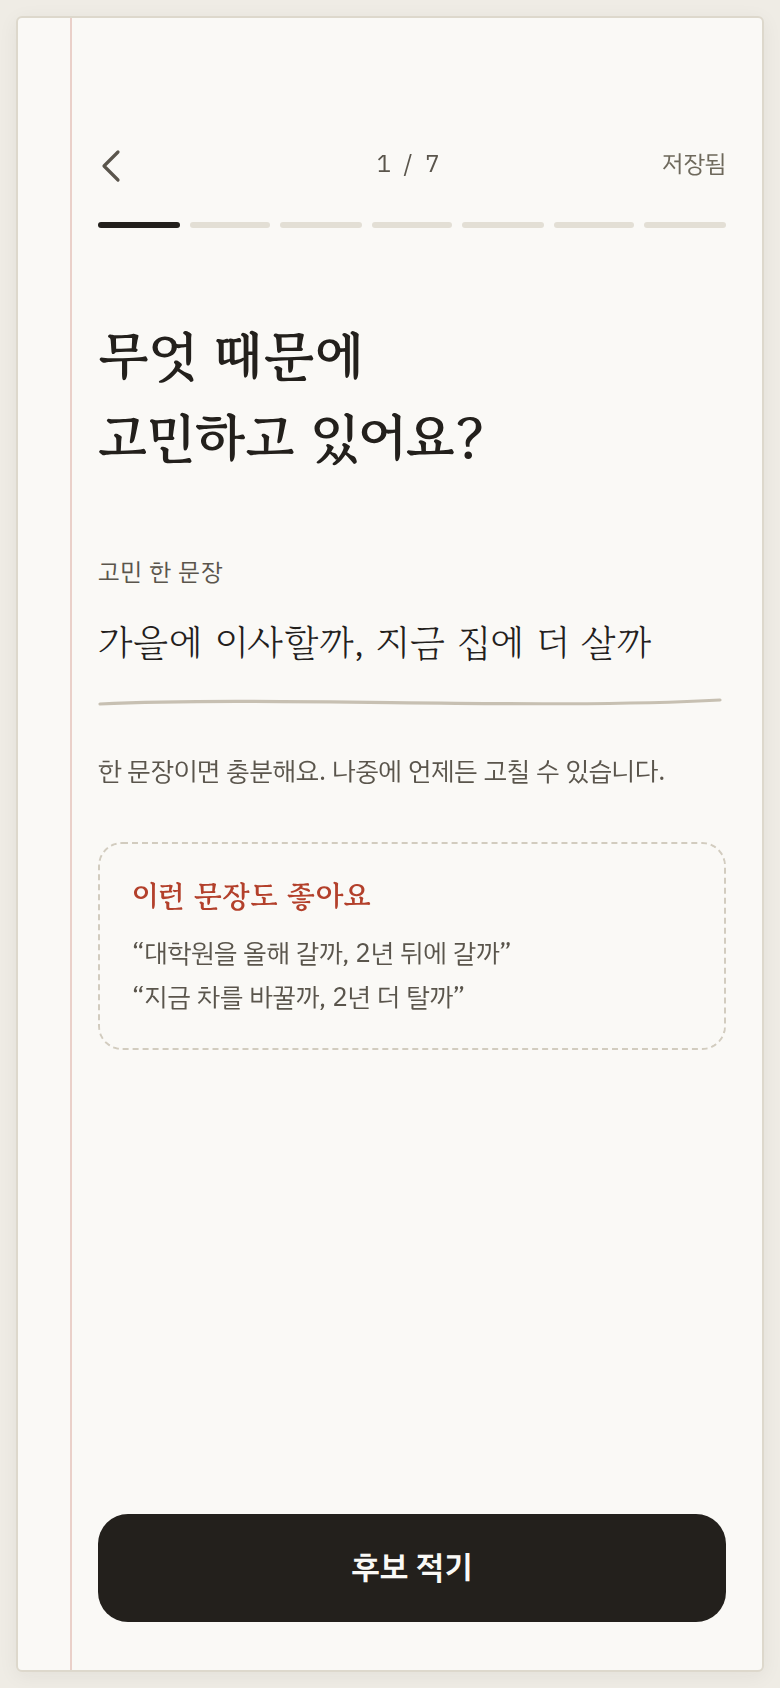
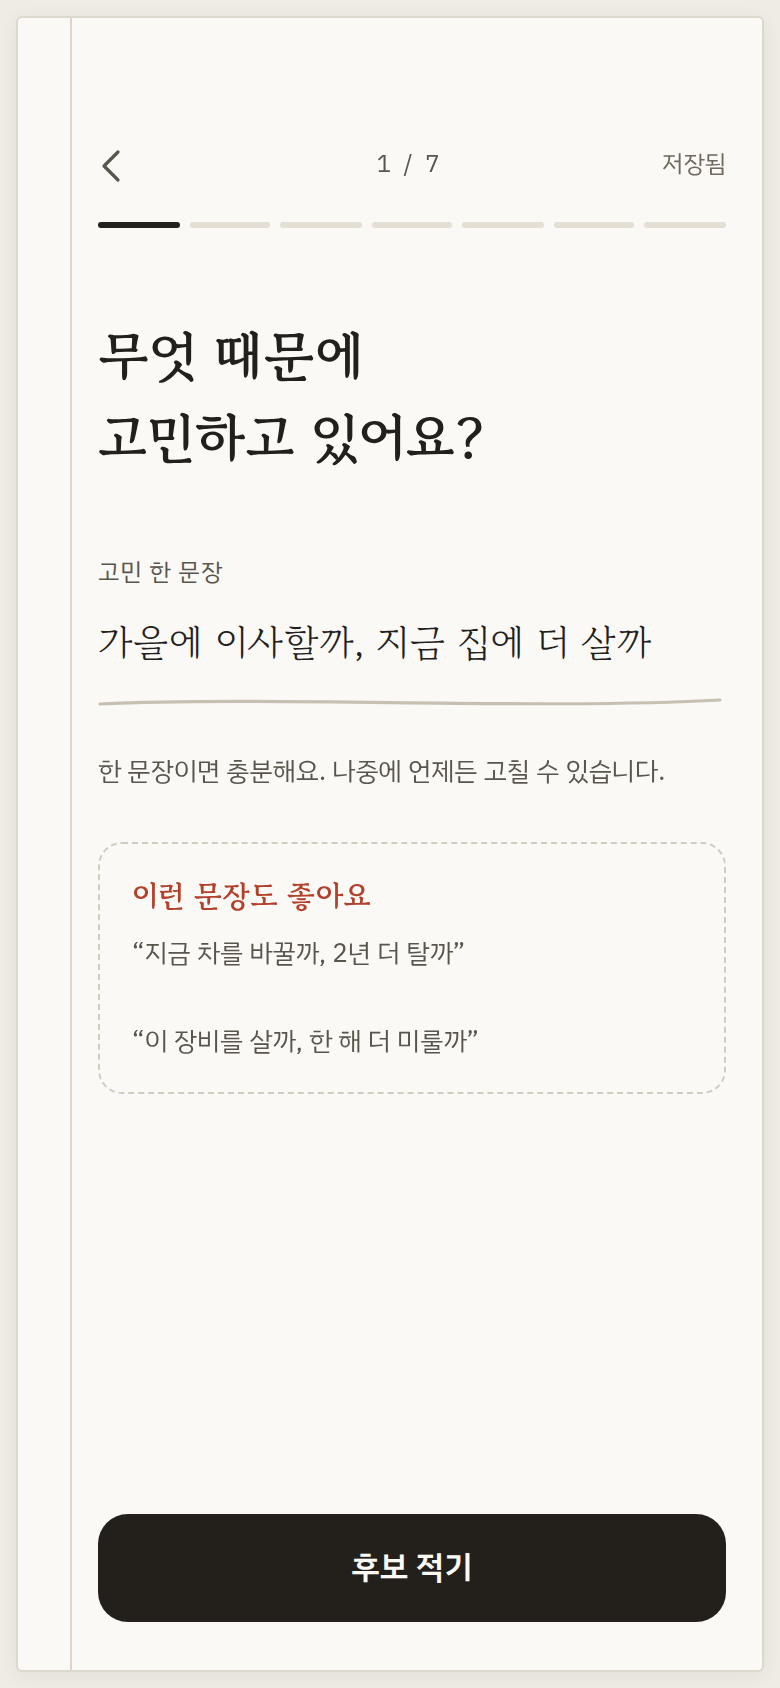
fix: 커서 두 개 · 시안 예시 고정 제거
커서 두 개 (피드백 5)
입력칸이 비어 있고 포커스가 있으면 브라우저의 진짜 커서가 왼쪽에서,
장식용 펜 커서가 오른쪽 끝에서 함께 깜빡였다. 펜 커서는 "여기에 쓰세요"를
알리는 표시이므로 비어 있고 **포커스가 없을 때만** 보이게 했다.
같은 구조가 두 화면에 있어 WriteField 컴포넌트로 합쳤다.

시안 예시 고정 (피드백 3)
'이사' 예시가 모든 입력칸에 박혀 있어서, 다른 고민을 적으면 화면이 남의 옷을
입은 것처럼 읽혔다.

- 고민 한 문장: 문장의 꼴을 보여주려면 예시가 필요하므로 남기되, 주거·진로·
  구매·관계·건강·일의 여섯 묶음에서 결정마다 다른 것을 뽑는다. 같은 결정에서는
  id로 고정해 화면을 오갈 때 바뀌지 않는다
- 후보·기준·필수조건·이유: 내용이 전적으로 그 사람의 고민에 달렸다. 예시를 주면
  그 방향으로 끌려가므로 자리 표시만 남겼다
- 기준 화면의 '+ 소음' '+ 계약 안정성' 칩 제거. 주거 고민에만 맞았고,
  앱이 기준 후보를 늘어놓는 것 자체가 기획안 8.3에 어긋난다

Claude-Session: https://claude.ai/code/session_01DfCYJNm8fnv5qvTtHT6e4k

Changed region(s): [[0.1846, 0.5545, 0.6462, 0.6469]]

diff --git a/src/copy/examples.ts b/src/copy/examples.ts
@@ -1,0 +1,48 @@
+/**
+ * 입력칸의 예시 문구.
+ *
+ * 시안에서는 '이사' 예시가 모든 화면에 고정돼 있었는데, 실제로 다른 고민을 적으면
+ * 화면이 남의 옷을 입은 것처럼 읽혔다. 그래서 이렇게 나눈다.
+ *
+ *   · 고민 한 문장  — 문장의 *꼴*을 보여줘야 해서 예시가 필요하다. 대신 도메인을 섞은
+ *                    묶음에서 결정마다 다른 것을 뽑는다.
+ *   · 그 외 칸      — 후보·기준·조건·이유는 전적으로 그 사람의 고민에 달렸다.
+ *                    예시를 주면 그 방향으로 끌려가므로 자리만 알려준다.
+ */
+
+/** 고민 한 문장의 예시. 한 묶음 안에서 서로 다른 생활 영역을 고른다. */
+const QUESTION_EXAMPLES: string[][] = [
+  ['가을에 이사할까, 지금 집에 더 살까', '전세로 갈까, 월세로 버틸까'],
+  ['대학원을 올해 갈까, 2년 뒤에 갈까', '지금 회사에 남을까, 옮길까'],
+  ['지금 차를 바꿀까, 2년 더 탈까', '이 장비를 살까, 한 해 더 미룰까'],
+  ['이 관계를 이어갈까, 여기서 정리할까', '이번 주말에 말할까, 조금 더 볼까'],
+  ['운동을 아침에 할까, 퇴근 후에 할까', '치료를 지금 받을까, 경과를 더 볼까'],
+  ['이 프로젝트를 맡을까, 넘길까', '혼자 할까, 같이 할까'],
+]
+
+/**
+ * 같은 결정에서는 늘 같은 예시가 나오도록 id로 고른다.
+ * 화면을 오갈 때마다 예시가 바뀌면 산만하다.
+ */
+export function questionExamples(seed: string): string[] {
+  let hash = 0
+  for (let i = 0; i < seed.length; i++) hash = (hash * 31 + seed.charCodeAt(i)) | 0
+  const index = Math.abs(hash) % QUESTION_EXAMPLES.length
+  return QUESTION_EXAMPLES[index] ?? QUESTION_EXAMPLES[0]!
+}
+
+/** 고민 입력칸의 흐린 글씨. 예시 묶음의 첫 문장을 쓴다. */
+export function questionPlaceholder(seed: string): string {
+  return questionExamples(seed)[0] ?? ''
+}
+
+/**
+ * 후보·기준 칸의 흐린 글씨. 내용이 아니라 순서만 알려준다.
+ * 예시를 넣으면 그 도메인으로 생각이 끌려간다.
+ */
+const ORDINAL_WORDS = ['첫 번째', '두 번째', '세 번째', '네 번째', '다섯 번째'] as const
+
+export function slotPlaceholder(index: number, noun: string): string {
+  const word = ORDINAL_WORDS[index]
+  return word ? `${word} ${noun}` : noun
+}

diff --git a/src/screens/Frame.tsx b/src/screens/Frame.tsx
@@ -1,8 +1,8 @@
 import { useNavigate } from 'react-router-dom'
 import { Paper } from '@/components/Paper'
-import { InkUnderline } from '@/components/Ink'
-import { StepBar, Title, TopBar } from '@/components/Controls'
+import { StepBar, Title, TopBar, WriteField } from '@/components/Controls'
 import { delay } from '@/styles/motion'
+import { questionExamples, questionPlaceholder } from '@/copy/examples'
 import { useDecision } from '@/app/useDecision'
 import { flushPendingSave } from '@/store/decisions'
 import { nextPath, prevPath, stepNumber } from '@/store/factory'
@@ -35,22 +35,13 @@ export function Frame() {
       </div>
 
       <div className="write" style={{ marginTop: 38 }}>
-        <label className="write__label" htmlFor="question">
-          고민 한 문장
-        </label>
-        <div className="write__line">
-          <input
-            id="question"
-            type="text"
-            className="write__input"
-            placeholder="가을에 이사할까, 지금 집에 더 살까"
-            value={decision.question}
-            autoComplete="off"
-            onChange={(e) => update((d) => ({ ...d, question: e.target.value }))}
-          />
-          {!ready && <span className="write__caret m-caret" style={delay(0, 'm-write', 760)} />}
-        </div>
-        <InkUnderline delayMs={300} />
+        <WriteField
+          id="question"
+          label="고민 한 문장"
+          value={decision.question}
+          placeholder={questionPlaceholder(decision.id)}
+          onChange={(value) => update((d) => ({ ...d, question: value }))}
+        />
       </div>
 
       <p className="lede m-lift" style={{ marginTop: 20, ...delay(0, 'm-lift', 620) }}>
@@ -62,9 +53,11 @@ export function Frame() {
           이런 문장도 좋아요
         </div>
         <div style={{ marginTop: 6, fontSize: 13, lineHeight: 1.7, color: 'var(--soft)' }}>
-          “대학원을 올해 갈까, 2년 뒤에 갈까”
-          <br />
-          “지금 차를 바꿀까, 2년 더 탈까”
+          {questionExamples(decision.id).map((example, i) => (
+            <span key={example} style={{ display: 'block' }}>
+              {i > 0 && <br />}“{example}”
+            </span>
+          ))}
         </div>
       </div>
 

diff --git a/src/screens/Criteria.tsx b/src/screens/Criteria.tsx
@@ -9,8 +9,7 @@ import { DEFAULT_CRITERIA, MAX_CRITERIA } from '@/core/types'
 import { useDecision } from '@/app/useDecision'
 import { flushPendingSave } from '@/store/decisions'
 import { newCriterion, nextPath, prevPath, stepNumber } from '@/store/factory'
-
-const SUGGESTIONS = ['소음', '계약 안정성', '출퇴근 시간']
+import { slotPlaceholder } from '@/copy/examples'
 
 /**
  * 4 · 기준 세 개
@@ -101,10 +100,6 @@ export function Criteria() {
     navigate(nextPath(decision!.id, 'criteria'))
   }
 
-  const unusedSuggestions = SUGGESTIONS.filter(
-    (s) => !named.some((c) => c.name.trim() === s),
-  ).slice(0, 2)
-
   return (
     <Paper>
       <TopBar
@@ -133,7 +128,7 @@ export function Criteria() {
               style={{ border: 0, background: 'transparent', padding: 0 }}
               type="text"
               value={criterion.name}
-              placeholder={['월 주거비', '방 개수', '출퇴근 시간'][i] ?? '기준'}
+              placeholder={slotPlaceholder(i, '기준')}
               aria-label={`기준 ${i + 1}`}
               autoComplete="off"
               onChange={(e) => setName(criterion.id, e.target.value)}
@@ -174,17 +169,13 @@ export function Criteria() {
 
       {canAdd && (
         <div className="m-lift" style={{ marginTop: 20, ...delay(0, 'm-lift', 600) }}>
-          <div style={{ fontSize: 12, color: 'var(--soft)' }}>필요하면 하나 더</div>
-          <div style={{ marginTop: 10, display: 'flex', flexWrap: 'wrap', gap: 8 }}>
-            {unusedSuggestions.map((s) => (
-              <button key={s} type="button" className="btn--chip" onClick={() => add(s)}>
-                + {s}
-              </button>
-            ))}
-            <button type="button" className="btn--chip" onClick={() => add()}>
-              + 직접 적기
-            </button>
-          </div>
+          {/*
+            기준 후보를 앱이 늘어놓지 않는다. 고른 예시는 그 사람의 고민에 안 맞으면
+            생각을 엉뚱한 쪽으로 끌고 가고, 맞아도 "고려할 것"을 늘린다 (기획안 8.3).
+          */}
+          <button type="button" className="btn--chip" onClick={() => add()}>
+            + 기준 하나 더
+          </button>
         </div>
       )}
 

diff --git a/src/components/Controls.tsx b/src/components/Controls.tsx
@@ -1,6 +1,7 @@
-import type { ReactNode } from 'react'
+import { useState, type ReactNode } from 'react'
 import { Link } from 'react-router-dom'
 import { BackIcon, DragHandleIcon } from './Icons'
+import { InkUnderline } from './Ink'
 import { delay } from '@/styles/motion'
 
 /** 화면 머리말. 뒤로가기 · 단계 표시 · 저장 상태 (§6 화면 구성 공통) */
@@ -251,5 +252,64 @@ export function Title({ lines, size = 25, base = 80 }: { lines: string[]; size?:
         </span>
       ))}
     </h1>
+  )
+}
+
+/**
+ * 종이에 펜으로 쓰는 입력 한 줄.
+ *
+ * 장식용 펜 커서는 **비어 있고 포커스가 없을 때만** 보인다. 포커스가 들어오면
+ * 브라우저의 진짜 커서가 왼쪽에서 깜빡이므로, 둘을 함께 두면 커서가 두 개로 보인다.
+ */
+export function WriteField({
+  id,
+  label,
+  value,
+  onChange,
+  placeholder,
+  hint,
+  fontSize = 19,
+  underlineDelayMs = 300,
+}: {
+  id: string
+  label: string
+  value: string
+  onChange: (value: string) => void
+  placeholder?: string
+  hint?: string
+  fontSize?: number
+  underlineDelayMs?: number
+}) {
+  const [focused, setFocused] = useState(false)
+
+  return (
+    <>
+      <label className="write__label" htmlFor={id}>
+        {label}
+      </label>
+      <div className="write__line">
+        <input
+          id={id}
+          type="text"
+          className="write__input"
+          style={{ fontSize }}
+          placeholder={placeholder}
+          value={value}
+          autoComplete="off"
+          onChange={(e) => onChange(e.target.value)}
+          onFocus={() => setFocused(true)}
+          onBlur={() => setFocused(false)}
+        />
+        {value.trim() === '' && !focused && (
+          <span className="write__caret m-caret" aria-hidden="true" />
+        )}
+      </div>
+      <InkUnderline delayMs={underlineDelayMs} />
+      {hint && (
+        <p style={{ margin: '8px 0 0', fontSize: 12, lineHeight: 1.7, color: 'var(--soft)' }}>
+          {hint}
+        </p>
+      )}
+    </>
   )
 }

diff --git a/src/screens/Commit.tsx b/src/screens/Commit.tsx
@@ -1,8 +1,8 @@
 import { useMemo, useState } from 'react'
 import { useNavigate } from 'react-router-dom'
 import { Paper } from '@/components/Paper'
-import { Scale5, TopBar } from '@/components/Controls'
-import { InkPhrase, InkUnderline } from '@/components/Ink'
+import { Scale5, TopBar, WriteField } from '@/components/Controls'
+import { InkPhrase } from '@/components/Ink'
 import { delay } from '@/styles/motion'
 import { evaluate } from '@/core/evaluate'
 import type { CommitRecord } from '@/core/types'
@@ -87,26 +87,15 @@ export function Commit() {
       </h1>
 
       <div className="write m-lift" style={{ marginTop: 30, gap: 6, ...delay(0, 'm-lift', 280) }}>
-        <label className="write__label" htmlFor="reason">
-          가장 큰 이유 한 줄
-        </label>
-        <div className="write__line">
-          <input
-            id="reason"
-            type="text"
-            className="write__input"
-            style={{ fontSize: 18 }}
-            placeholder="방이 하나 더 필요하다는 게 제일 컸다"
-            value={reason}
-            autoComplete="off"
-            onChange={(e) => patchCommit({ reason: e.target.value })}
-          />
-          {reason.trim() === '' && <span className="write__caret m-caret" />}
-        </div>
-        <InkUnderline delayMs={320} />
-        <p style={{ margin: '8px 0 0', fontSize: 12, lineHeight: 1.7, color: 'var(--soft)' }}>
-          나중에 돌아볼 때 이 한 줄이 가장 쓸모 있습니다.
-        </p>
+        <WriteField
+          id="reason"
+          label="가장 큰 이유 한 줄"
+          value={reason}
+          fontSize={18}
+          underlineDelayMs={320}
+          hint="나중에 돌아볼 때 이 한 줄이 가장 쓸모 있습니다."
+          onChange={(value) => patchCommit({ reason: value })}
+        />
       </div>
 
       <div className="m-lift" style={{ marginTop: 26, ...delay(0, 'm-lift', 400) }}>

diff --git a/src/screens/Alternatives.tsx b/src/screens/Alternatives.tsx
@@ -9,6 +9,7 @@ import { MAX_ALTERNATIVES, MIN_ALTERNATIVES } from '@/core/types'
 import { useDecision } from '@/app/useDecision'
 import { flushPendingSave } from '@/store/decisions'
 import { newAlternative, nextPath, prevPath, stepNumber } from '@/store/factory'
+import { slotPlaceholder } from '@/copy/examples'
 
 /** 2 · 후보 적기 — 2~5개로 제한한다 (기획안 8.2 choice complexity 관리) */
 export function Alternatives() {
@@ -128,7 +129,7 @@ export function Alternatives() {
               style={{ border: 0, background: 'transparent', padding: 0 }}
               type="text"
               value={alt.name}
-              placeholder={i === 0 ? '지금 집 재계약' : '신도시 24평으로 이사'}
+              placeholder={slotPlaceholder(i, '후보')}
               aria-label={`후보 ${i + 1}`}
               autoComplete="off"
               onChange={(e) => setName(alt.id, e.target.value)}

diff --git a/src/screens/Must.tsx b/src/screens/Must.tsx
@@ -86,7 +86,7 @@ export function Must() {
               style={{ border: 0, background: 'transparent', padding: 0 }}
               type="text"
               value={must.name}
-              placeholder="보증금 3억 이하"
+              placeholder={`이것만은 안 되는 조건 ${i + 1}`}
               aria-label={`필수조건 ${i + 1}`}
               autoComplete="off"
               onChange={(e) => setName(must.id, e.target.value)}
